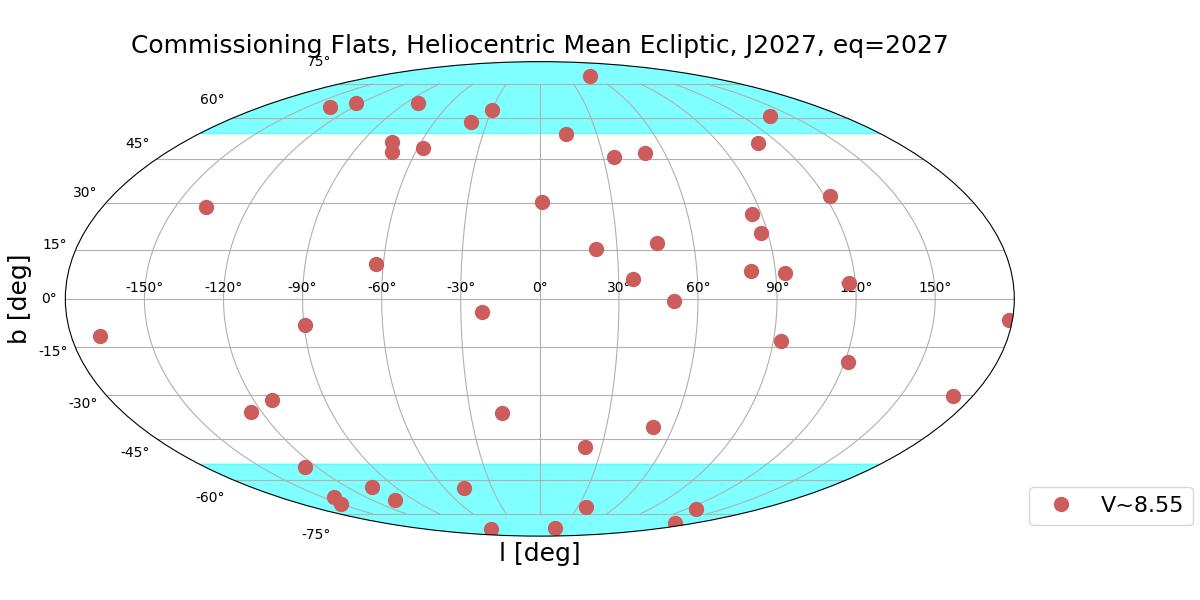
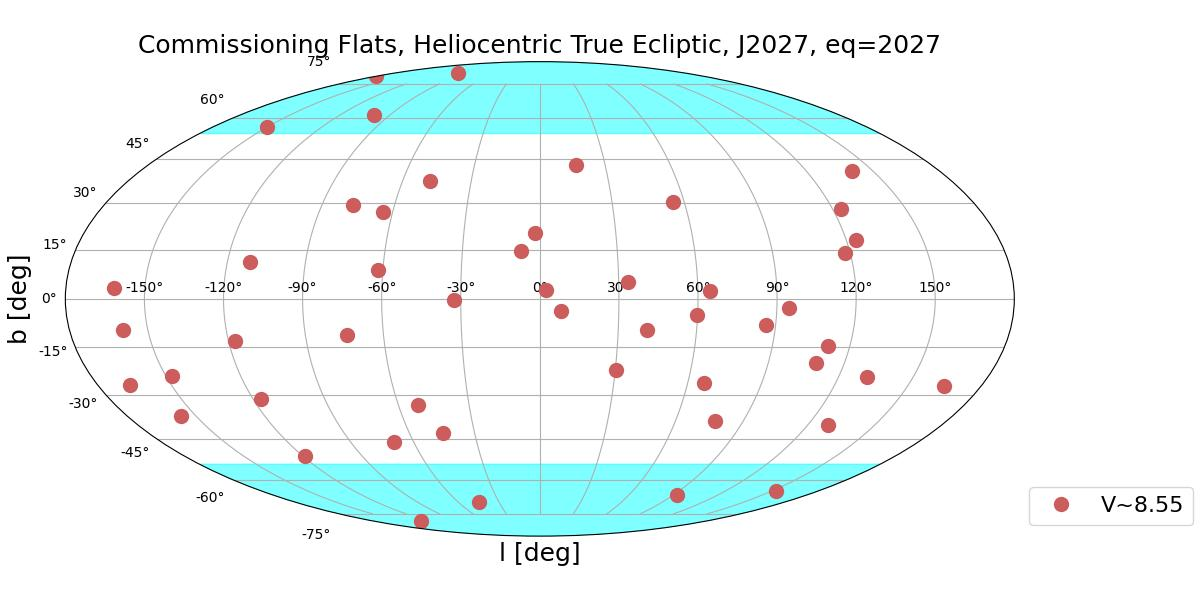
small fix to plot titling

diff --git a/CalWG_Targets.py b/CalWG_Targets.py
@@ -312,7 +312,7 @@ def coreThruput(catsave=False,plotsave=False):
 
 	ax1.plot(ra_rad855,dec_rad855,marker='o',linestyle='None',color='indianred',markersize=10,label='V>10.9')
 
-	ax1.set_title('Core Throughput Standards, Heliocentric Mean Ecliptic, J2027, eq=2027',fontsize=18)
+	ax1.set_title('Core Throughput Standards, Heliocentric True Ecliptic, J2027, eq=2027',fontsize=18)
 
 	ax1.set_xlabel('l [deg]',fontsize=18)
 
@@ -383,7 +383,7 @@ def commissioningFlats(catsave=False,plotsave=False):
 
 	ax1.plot(ra_rad855,dec_rad855,marker='o',linestyle='None',color='indianred',markersize=10,label='V~8.55')
 
-	ax1.set_title('Commissioning Flats, Heliocentric Mean Ecliptic, J2027, eq=2027',fontsize=18)
+	ax1.set_title('Commissioning Flats, Heliocentric True Ecliptic, J2027, eq=2027',fontsize=18)
 
 	ax1.set_xlabel('l [deg]',fontsize=18)
 
